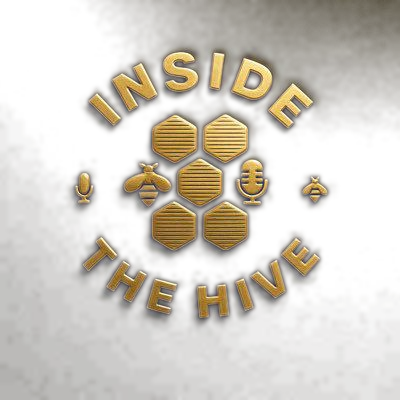
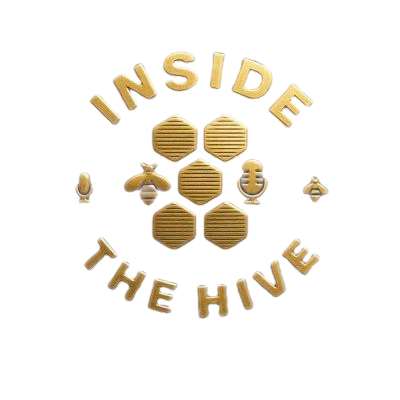
removed additional colors

diff --git a/app/components/catgories.jsx b/app/components/catgories.jsx
@@ -12,9 +12,9 @@ export default function Categories() {
             image: '/assets/blockchain1.jpg',
             letters: ['B', 'L', 'O', 'C', 'K', 'C', 'H', 'A', 'I', 'N'],
             colors: {
-                title: '#a2fbfa',
-                button: '#a2fbfa',
-                brand: '#bb44a2'
+                title: '#fff',
+                button: '#fff',
+                brand: '#fff'
             }
         },
         {
@@ -22,9 +22,9 @@ export default function Categories() {
             image: '/assets/cryptopayment4.jpg',
             letters: ['C', 'R', 'Y', 'P', 'T', 'O', '', '', 'P', 'A', 'Y', 'M', 'E', 'N', 'T', 'S'],
             colors: {
-                title: '#c0aaa2',
+                title: '#fff',
                 button: '#fff',
-                brand: '#719301'
+                brand: '#fff'
             }
         },
         {

diff --git a/app/components/header.jsx b/app/components/header.jsx
@@ -250,7 +250,7 @@ export default function Header() {
         ref={headerRef}
       >
         <Link href="/" prefetch={true} className="header__logo" ref={logoRef}>
-          <Image alt="" src={"/assets/inside_the_hive.png"} width={70} height={70} />
+          <Image alt="" src={"/assets/inside_the_hive.png"} width={80} height={80} />
           <div>
           {/* Inside<span>TheHive</span> */}
           </div>
